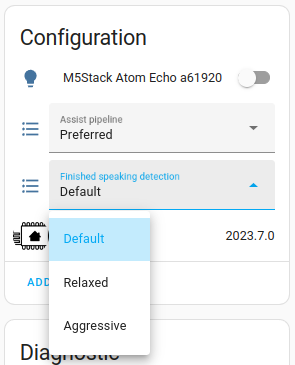
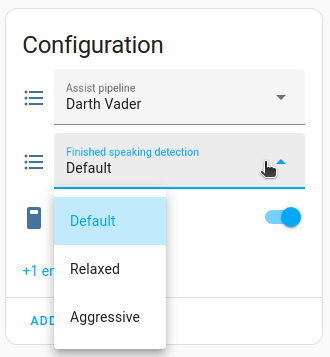
Update to reflect current software (#29257)
* Update to reflect current software

* Add ATOM specific troubleshooting steps

* add step to stop collecting debug audio files

* Apply suggestions from code review

* Move step into correspinding procedure

* Apply suggestions from code review

* Apply suggestions from code review

* Add tutorial on creating a custom wake word

* Fix typo

* Move step result

* Tiny tweak

* Add related topics

* Fix typo

* Apply suggestions from code review

* Apply suggestions from code review

* Remove steps to restart. Not needed.

* Add troubleshooting step if Wake word option is not shown in assistant setup

* Add step to reload Wyoming integration

* Run all cells instead of 2 and 3 separately

* Add info that resources in training environment are limited

- add troubleshooting steps to deal with limitation

* Update source/voice_control/create_wake_word.markdown

* Apply suggestions from code review

* Rename voice remote to voice assistant

* Undo rename in redirect

* Update source/voice_control/create_wake_word.markdown

* Add links

* Add link to video

* Implement review feedback

* Update to reflect changes in software

* Update video on wake word with ATOM Echo

* Update header.html

---------

diff --git a/source/_includes/asides/voice_navigation.html b/source/_includes/asides/voice_navigation.html
@@ -28,7 +28,8 @@
     <h1 class="title delta">Projects</h1>
     <ul class="divided sidebar-menu">
       <li>{% active_link /voice_control/worlds-most-private-voice-assistant/ Tutorial: World's most private voice assistant %}</li>
-      <li>{% active_link /voice_control/thirteen-usd-voice-remote/ Tutorial: $13 voice remote %}</li>
+      <li>{% active_link /voice_control/thirteen-usd-voice-remote/ Tutorial: $13 voice assistant %}</li>
+      <li>{% active_link /voice_control/create_wake_word/ Tutorial: Create your own wake word %}</li>
       <li>{% active_link /voice_control/assist_daily_summary/ Tutorial: Your daily summary by Assist %}</li>
     </ul>
   </div>

diff --git a/source/_includes/site/header.html b/source/_includes/site/header.html
@@ -40,7 +40,7 @@
                 <a href="/dashboards/">Dashboards</a>
               </li>
               <li>
-                <a href="/voice_control/">Voice control</a>
+                <a href="/voice_control/">Voice assistant</a>
               </li>
             </ul>
           </li>
